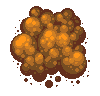
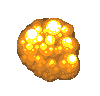
Ultima

diff --git a/src/main/java/arkanoid/Principal.java b/src/main/java/arkanoid/Principal.java
@@ -5,6 +5,7 @@ import java.awt.Image;
 import java.awt.event.KeyAdapter;
 import java.awt.event.KeyEvent;
 
+import javax.swing.Icon;
 import javax.swing.ImageIcon;
 import javax.swing.JFrame;
 import javax.swing.JLabel;
@@ -17,14 +18,17 @@ public class Principal extends JFrame {
     Barra barra;
     Barrera barrera;
     Ladrillo ladrillo;
+    Low low;
+    PowerUp powerUp;
     Bola bola;
     NumPuntuacion numPuntuacion;
     int puntuacion;
+    Icon[] auxExplosion = new Icon[8];
 
     Principal() {
         super("Arkanoid");
         setLayout(null);
-        
+
         getContentPane().setBackground(Color.BLACK);
 
         getContentPane().setFocusable(true);
@@ -45,13 +49,19 @@ public class Principal extends JFrame {
             this.add(barrera);
             x1 += 60;
         }
+
+        powerUp = new PowerUp(this);
+        add(powerUp);
+
+        
+
         int x2 = 305;
         int y2 = 95;
         for (int i = 0; i < 6; i++) {
             numPuntuacion = new NumPuntuacion(this);
-            numPuntuacion.setSize(16,20);
-            numPuntuacion.setLocation(x2,y2);
-            auxScore[i]=numPuntuacion;
+            numPuntuacion.setSize(16, 20);
+            numPuntuacion.setLocation(x2, y2);
+            auxScore[i] = numPuntuacion;
             add(numPuntuacion);
             x2 += 20;
         }
@@ -59,7 +69,7 @@ public class Principal extends JFrame {
         int x = 144;
         int y = 250;
         for (int i = 0; i < 88; i++) {
-            ladrillo = new Ladrillo(this,cont);
+            ladrillo = new Ladrillo(this, cont);
             ladrillo.setSize(63, 25);
             ladrillo.setLocation(x, y);
             this.add(ladrillo);
@@ -97,6 +107,14 @@ public class Principal extends JFrame {
         lblFondo.setIcon(imgPre);
         add(lblFondo);
 
+        for (int i = 0; i < 8; i++) {
+            ImageIcon imagen1 = new ImageIcon(Ladrillo.class.getResource("/arkanoid/img/explosion" + i + ".png"));
+            Image conversion1 = imagen1.getImage();
+            Image tamaño1 = conversion1.getScaledInstance(50, 25, Image.SCALE_SMOOTH);
+            ImageIcon imgPre1 = new ImageIcon(tamaño1);
+            auxExplosion[i] = imgPre1;
+        }
+
     }
 
     public class movimientoKey extends KeyAdapter {
@@ -114,6 +132,7 @@ public class Principal extends JFrame {
 
             }
         }
+
         @Override
         public void keyReleased(KeyEvent e) {
             if (e.getKeyCode() == KeyEvent.VK_LEFT) {
@@ -138,7 +157,7 @@ public class Principal extends JFrame {
                     } else {
                         bola.flagEmpezar = true;
                         bola.velocidadx = (int) (Math.random() * 5 - 2);
-                        while(bola.velocidadx==0){
+                        while (bola.velocidadx == 0) {
                             bola.velocidadx = (int) (Math.random() * 5 - 2);
                         }
                     }

diff --git a/src/main/java/arkanoid/Ladrillo.java b/src/main/java/arkanoid/Ladrillo.java
@@ -5,6 +5,7 @@ import java.awt.event.ActionEvent;
 import java.awt.event.ActionListener;
 
 import javax.swing.Timer;
+import javax.swing.Icon;
 import javax.swing.ImageIcon;
 import javax.swing.JLabel;
 
@@ -12,6 +13,7 @@ public class Ladrillo extends JLabel implements ActionListener {
     boolean animacion = false;
     Timer timerAnimacion;
     int contaux = 0;
+    
     Principal p;
 
     Ladrillo(Principal p, int index) {
@@ -20,24 +22,25 @@ public class Ladrillo extends JLabel implements ActionListener {
         Image tamaño = conversion.getScaledInstance(63, 25, Image.SCALE_SMOOTH);
         ImageIcon imgPre = new ImageIcon(tamaño);
         this.setIcon(imgPre);
-        timerAnimacion = new Timer(100, this);
-        timerAnimacion.start();
         this.p = p;
+        
+        timerAnimacion = new Timer(25, this);
+        timerAnimacion.start();
     }
 
     @Override
     public void actionPerformed(ActionEvent e) {
-        // TODO Auto-generated method stub
         if (e.getSource() == timerAnimacion && animacion) {
-            ImageIcon imagen = new ImageIcon(Ladrillo.class.getResource("/arkanoid/img/explosion" + 3 + ".png"));
-            Image conversion = imagen.getImage();
-            Image tamaño = conversion.getScaledInstance(63, 25, Image.SCALE_SMOOTH);
-            ImageIcon imgPre = new ImageIcon(tamaño);
-            this.setIcon(imgPre);
-            if (contaux == 12) {
-                animacion = false;
+            if (contaux == 7) {
                 this.setVisible(false);
+                animacion = false;
                 p.remove(this);
+                p.powerUp.XLadrillo = this.getX();
+                p.powerUp.YLadrillo = this.getY();
+                p.powerUp.gestionar();
+            }else{
+                this.setIcon(p.auxExplosion[contaux]);
+                contaux++;
             }
         }
 

diff --git a/src/main/java/arkanoid/Bola.java b/src/main/java/arkanoid/Bola.java
@@ -32,17 +32,18 @@ public class Bola extends JLabel implements ActionListener {
     }
 
     public void eliminar(Component objeto) {
-        objeto.setVisible(false);
-        p.remove(objeto);
+        // objeto.setVisible(false);
+        // p.remove(objeto);
+        ((Ladrillo)objeto).animacion = true;
         p.puntuacion += 10;
         contEliminar++;
-        for(int i = 0; i<p.auxScore.length;i++){
-        ImageIcon imagen1 = new ImageIcon(Bola.class.getResource("/arkanoid/img/num"+(String.format("%06d", p.puntuacion).charAt(i)+".png")));
-        Image conversion1 = imagen1.getImage();
-            Image tamaño1 = conversion1.getScaledInstance(15, 15, Image.SCALE_SMOOTH);
-            ImageIcon imgPre1 = new ImageIcon(tamaño1);
-            p.auxScore[i].setIcon(imgPre1);
-        }
+        // for(int i = 0; i<p.auxScore.length;i++){
+        // ImageIcon imagen1 = new ImageIcon(Bola.class.getResource("/arkanoid/img/num"+(String.format("%06d", p.puntuacion).charAt(i)+".png")));
+        // Image conversion1 = imagen1.getImage();
+        //     Image tamaño1 = conversion1.getScaledInstance(15, 15, Image.SCALE_SMOOTH);
+        //     ImageIcon imgPre1 = new ImageIcon(tamaño1);
+        //     p.auxScore[i].setIcon(imgPre1);
+        // }
     }
 
     @Override
